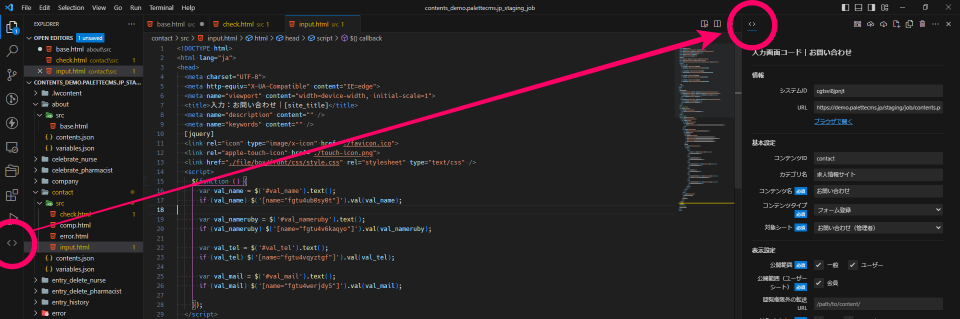
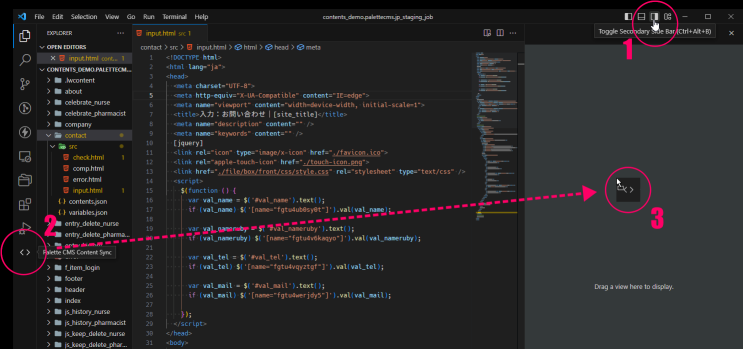
Updated README.

diff --git a/README_ja.md b/README_ja.md
@@ -1,6 +1,10 @@
 # Palette CMS Content Sync
 
+[![License](https://img.shields.io/badge/license-MIT-green.svg?style=flat)](https://raw.githubusercontent.com/IBM-Bluemix/vscode-log-output-colorizer/master/LICENSE)
+
 *※この拡張機能は[パレットCMS](https://palettecms.jp/)専用です。*
+
+---
 
 ## 概要
 
@@ -14,13 +18,11 @@ VSCodeで[パレットCMS](https://palettecms.jp/)のウェブコンテンツの
 1. ダウンロードしたZIPファイルを解凍します。
 1. VSCodeで解凍したフォルダを開きます。
 
-> ✅ TIPS:
->
-> VSCodeは拡張機能の表示位置を自由に変更できます。
->
-> サイドバーから*Palette CMS Content Sync*パネルを開き、拡張機能のアイコンをドラッグして任意の位置に移動します。
->
-> ウインドウの右側に移動すると、ファイル一覧とコンテンツの設定を同時に確認できて便利です。
+VSCodeは拡張機能の表示位置を自由に変更できます。
+
+サイドバーから*Palette CMS Content Sync*パネルを開き、拡張機能のアイコンをドラッグして任意の位置に移動します。
+
+ウインドウの右側に移動すると、ファイル一覧とコンテンツの設定を同時に確認できて便利です。
 
 ![](./media/image/readme/move_extension.png)
 

diff --git a/README.md b/README.md
@@ -1,8 +1,12 @@
 # Palette CMS Content Sync
 
+[![License](https://img.shields.io/badge/license-MIT-green.svg?style=flat)](https://raw.githubusercontent.com/IBM-Bluemix/vscode-log-output-colorizer/master/LICENSE)
+
 *NOTE: This extension only works for [Palette CMS](https://palettecms.jp/).*
 
 日本語は[こちら](./README_ja.md)
+
+---
 
 ## Overview
 
@@ -16,13 +20,11 @@ Edit and synchronize web content in [Palette CMS](https://palettecms.jp/) for VS
 1. Extract downloaded ZIP archive.
 1. Open folder with VSCode.
 
-> ✅ TIPS:
->
-> VSCode can freely change the display position of extensions.
->
-> Drag *Palette CMS Content Sync* extension icon from the left sidebar to the desired position.
->
-> Move it to the right side of the window to see the file browser and content settings at the same time.
+VSCode can freely change the display position of extensions.
+
+Drag *Palette CMS Content Sync* extension icon from the left sidebar to the desired position.
+
+Move it to the right side of the window to see the file browser and content settings at the same time.
 
 ![](./media/image/readme/move_extension.png)
 
